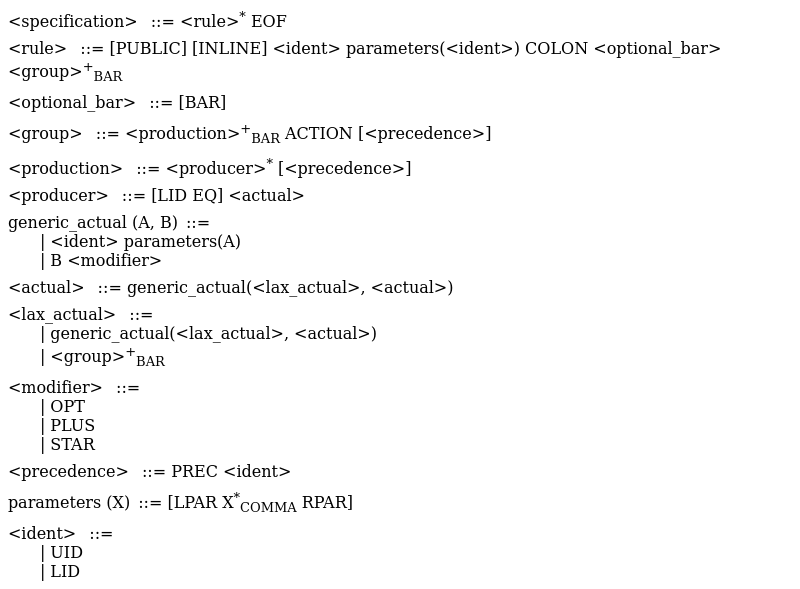
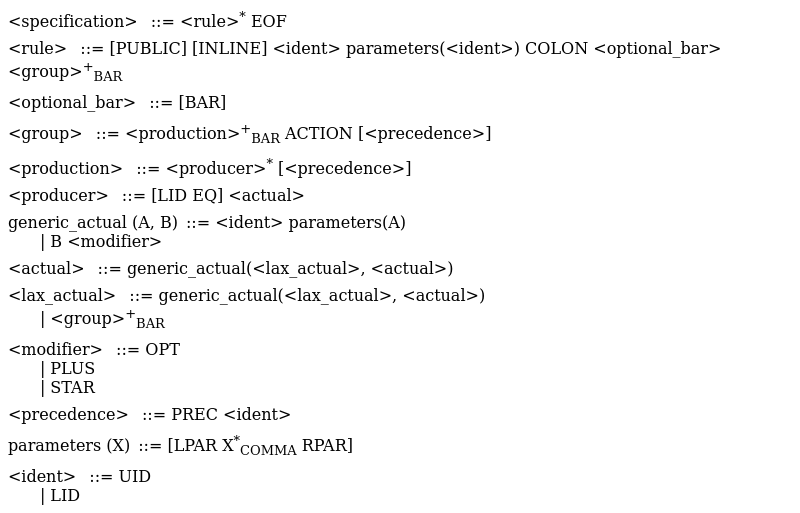
better alignment for production alternatives

Changed region(s): [[0.0, 0.0, 0.9062, 0.9981]]

diff --git a/README.md b/README.md
@@ -83,21 +83,19 @@ my_separated_nonempty_list(X, Y) ::= X (Y X)*
 
 my_separated_list(X, S) ::= [X (S X)*]
 
-my_rule(E, F, S1, S2) ::=
-  | my_option(E, F)
-  | my_list(E)
-  | my_nonempty_list(F)
-  | my_separated_nonempty_list(E, S1)
-  | my_separated_list(F, S2)
+my_rule(E, F, S1, S2) ::= my_option(E, F)
+                        | my_list(E)
+                        | my_nonempty_list(F)
+                        | my_separated_nonempty_list(E, S1)
+                        | my_separated_list(F, S2)
 ```
 And with the `-i` switch:
 ```
-my_rule(E, F, S1, S2) ::=
-  | [F E]
-  | E*
-  | F+
-  | E (S1 E)*
-  | [F (S2 F)*]
+my_rule(E, F, S1, S2) ::= [F E]
+                        | E*
+                        | F+
+                        | E (S1 E)*
+                        | [F (S2 F)*]
 ```
 
 ### Multi-format output
@@ -129,28 +127,24 @@ Here are the different formats output obtained by **Obelisk** from its own [pars
 
 <producer> ::= [LID EQ] <actual>
 
-generic_actual(A, B) ::=
-  | <ident> parameters(A)
-  | B <modifier>
+generic_actual(A, B) ::= <ident> parameters(A)
+                       | B <modifier>
 
 <actual> ::= generic_actual(<lax_actual>, <actual>)
 
-<lax_actual> ::=
-  | generic_actual(<lax_actual>, <actual>)
-  | <group> (BAR <group>)*
+<lax_actual> ::= generic_actual(<lax_actual>, <actual>)
+               | <group> (BAR <group>)*
 
-<modifier> ::=
-  | OPT
-  | PLUS
-  | STAR
+<modifier> ::= OPT
+             | PLUS
+             | STAR
 
 <precedence> ::= PREC <ident>
 
 parameters(X) ::= [LPAR [X (COMMA X)*] RPAR]
 
-<ident> ::=
-  | UID
-  | LID
+<ident> ::= UID
+          | LID
 ```
 
 #### LaTeX
